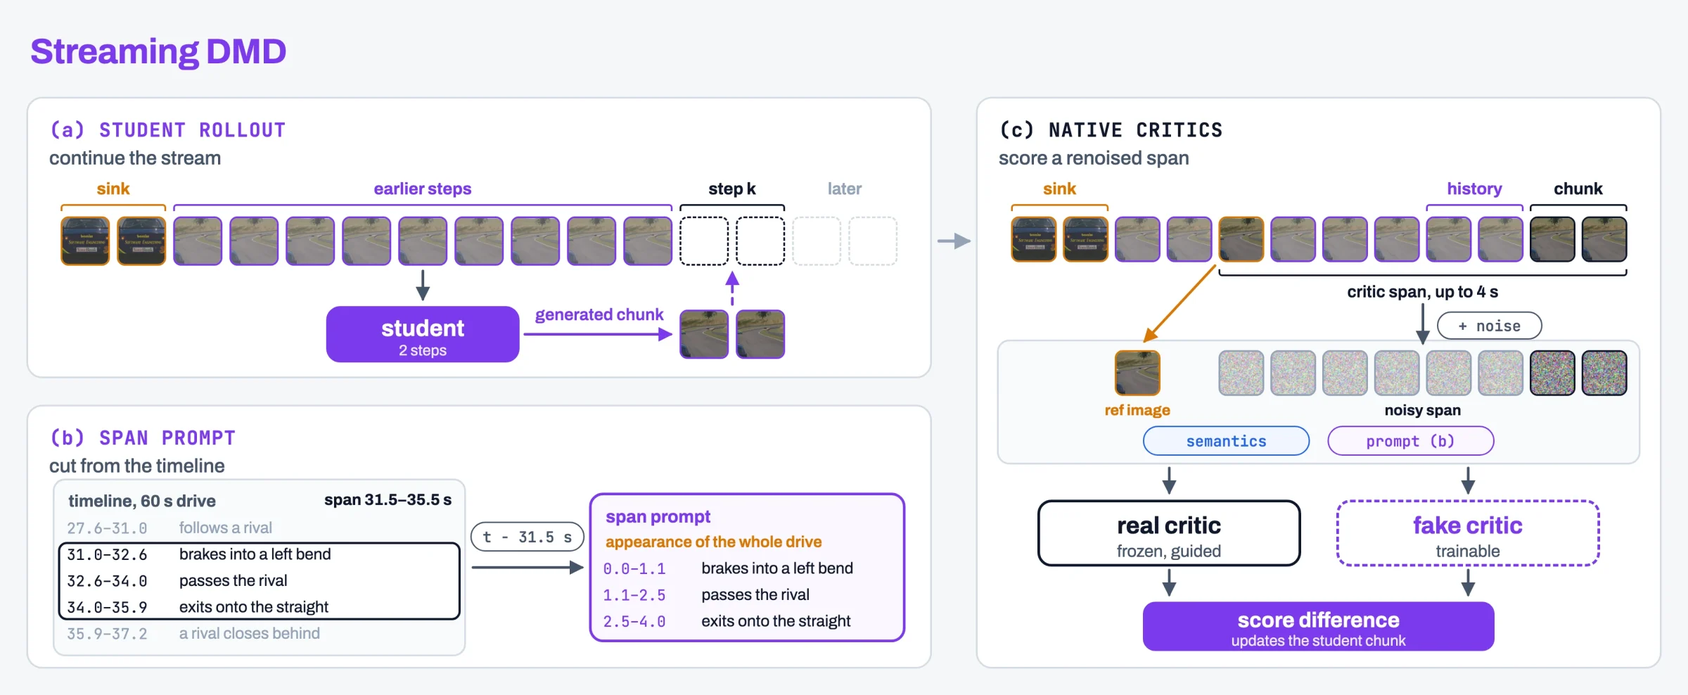
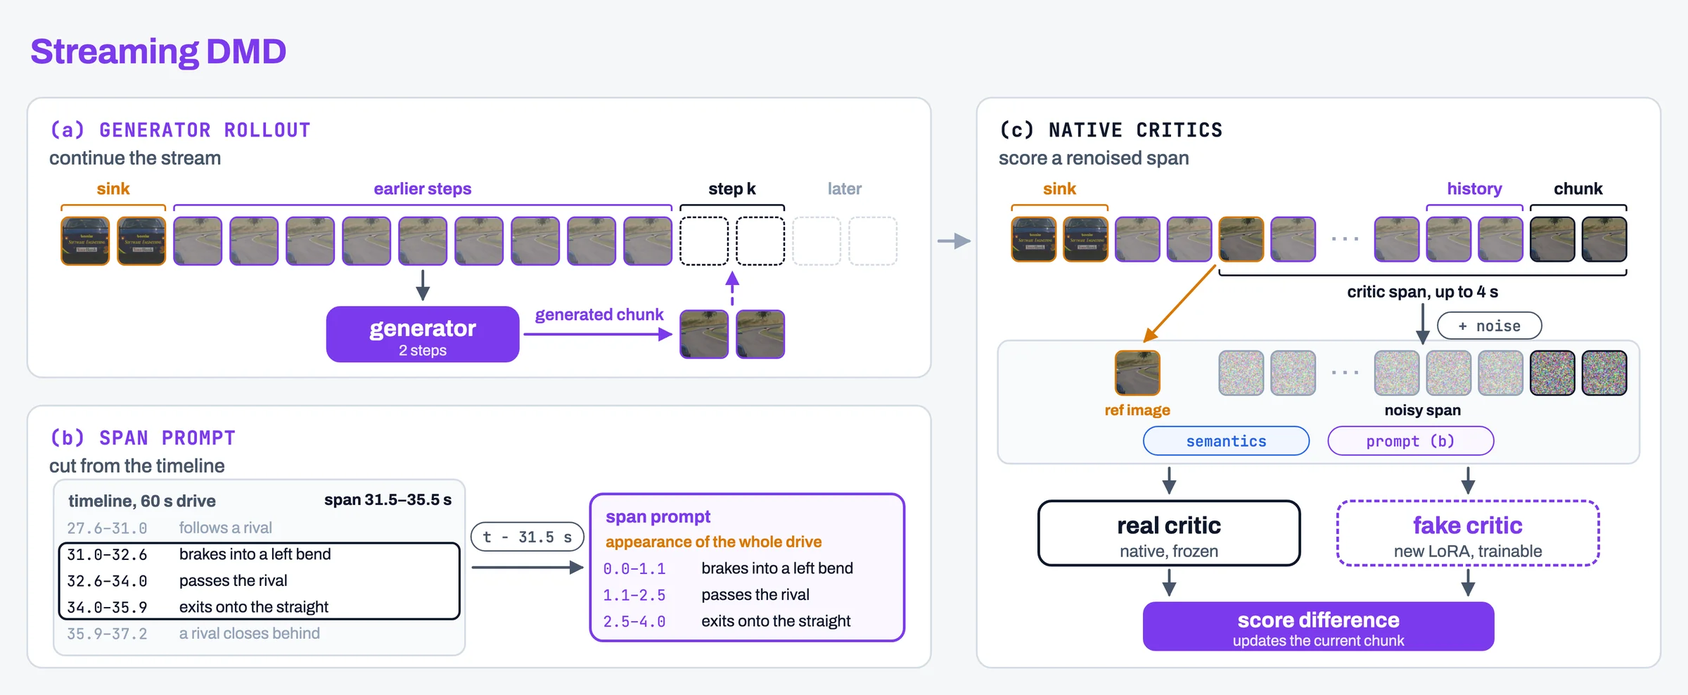
StreamRender-H3: describe the generator's three training stages in section 3.1
Describe one generator, pre-trained with teacher forcing and Resampling Forcing and then trained
with DMD, and use native Ref2VA critics in the DMD stage. Explain the five-second target segments,
the timestamped span prompts and the inputs of the labeling agents, and relabel the three figures.

diff --git a/Sol-Engine/StreamRender-H3/index.html b/Sol-Engine/StreamRender-H3/index.html
@@ -208,7 +208,7 @@ footer a:hover{color:var(--nv-green-dark)}
 <figcaption id="demo-caption"><strong id="demo-title">Demo</strong> StreamRender-H3 in the racing demo · 1080p, 62 s, with sound</figcaption></figure>
 </section>
 <section class="stats" aria-label="Key numbers">
-<div class="stat"><span class="stat-value">2<small>steps</small></span><span class="stat-label">Denoising steps per chunk in the distilled student</span></div>
+<div class="stat"><span class="stat-value">2<small>steps</small></span><span class="stat-label">Denoising steps per chunk in the deployed generator</span></div>
 <div class="stat"><span class="stat-value">217.96<small>ms</small></span><span class="stat-label">Diffusion render per streaming step on 8 GB200 GPUs, down from 799.66 ms</span></div>
 <div class="stat"><span class="stat-value">3.67<small>×</small></span><span class="stat-label">Speedup of the diffusion render from the PyTorch baseline</span></div>
 <div class="stat"><span class="stat-value">24<small>ms</small></span><span class="stat-label">Fast Causal H3 VAE decode of 2 latent frames at 720p on one GB200</span></div>
@@ -237,7 +237,7 @@ footer a:hover{color:var(--nv-green-dark)}
 <p>The loop runs in real time when each chunk is ready before the previous one has finished playing. The video then keeps pace with play, and each input shows up as soon as the chunk that contains its effect has been generated. The engine and the renderer share only the semantic frame stream and the appearance conditions of the session, so either side can be replaced independently. A different game, for example, only needs to produce semantic frames in the same format. Sections 3.2 and 3.3 describe how decoding and generation fit within the playback time of each chunk.</p>
 <h2 id="key-technologies" data-section-index="03">Key Technologies</h2>
 <h3 id="3-1-streaming-diffusion-render"><span class="h-num">3.1</span>Streaming Diffusion Render</h3>
-<p>The streaming diffusion render turns the semantic stream of the engine into photorealistic video. This section describes how it is conditioned and trained. Section 3.1.1 explains how a reference image and a prompt fix the look of the world. Section 3.1.2 explains how each chunk stays consistent with the stream before it and how the multi-step teacher is trained. Section 3.1.3 explains how the teacher is distilled into a two-step student for real-time play.</p>
+<p>The streaming diffusion render turns the semantic stream of the engine into photorealistic video. This section describes how it is conditioned and trained. Section 3.1.1 explains how a reference image and a prompt fix the look of the world. The video is produced by a diffusion generator that is trained in three stages. Section 3.1.2 explains how each chunk stays consistent with the stream before it and covers the two pre-training stages, teacher forcing and Resampling Forcing. Section 3.1.3 covers the last stage, DMD, which lets the generator produce each chunk in two steps for real-time play.</p>
 <h4 id="3-1-1-appearance-control-driven-by-reference-images-and-prompts"><span class="h-num">3.1.1</span>Appearance Control Driven by Reference Images and Prompts</h4>
 <p>A semantic map tells the renderer where everything is, but not what it looks like. In the racing demo, for example, the same road class could become dry asphalt at noon or a wet street at night, and the same vehicle class could become any car in any color. The renderer therefore needs a second source of information that fixes the look of the world. This information must also stay the same for the whole session, so that objects keep their appearance as the stream goes on. A prompt alone is too coarse for this purpose, because a few sentences cannot pin down a particular material, color scheme, or lighting. We therefore give the renderer two inputs at the start of each session, a reference image that shows the intended look and a prompt that explains how the inputs relate to each other.</p>
 <p><strong>Reference image.</strong> An image generation model redraws the opening frame of the game as a photorealistic picture. The redrawn picture keeps the composition of the frame, including the camera view, the layout of the scene, and the position of every object, and it chooses the materials, the colors and markings of objects, the weather, the lighting, and the overall style. Since the picture is aligned with the first semantic frame, each object in it corresponds to a region of a known class, so the renderer can tell which appearance belongs to which class. Changing the instruction given to the image model is enough to produce a different look for the same opening frame.</p>
@@ -245,24 +245,24 @@ footer a:hover{color:var(--nv-green-dark)}
 <p>Replacing the reference image and the prompt changes the look of the same game, while the engine and the semantic stream remain unchanged.</p>
 <figure class="article-figure wide"><a class="figure-open" href="assets/appearance_control.webp" target="_blank" rel="noreferrer" aria-label="Open full-size figure"><img src="assets/appearance_control.webp" alt="One semantic stream rendered in two styles by changing only the reference image and the prompt, in the racing demo" loading="lazy" decoding="async"/></a><figcaption>One semantic stream rendered in two styles by changing only the reference image and the prompt, in the racing demo</figcaption></figure>
 <p><strong>Training data in the racing scenario.</strong> For the racing demo, the renderer learns this division of labor from 10,000 paired clips of racing gameplay, each about 15 seconds long. The clips are cut from about 5,100 recorded races on 39 tracks, which include road circuits, dirt tracks, and ovals. Every car in these races is driven by an AI driver, each race has between zero and fifteen rival cars, and the camera follows the player's car from behind. For every clip, the engine records its normal render and the semantic video at 1344×768 and 24 frames per second. Each clip then receives three conditions and one target.</p>
-<ul><li><em>Reference image.</em> An image editing model (GPT-Image-2.5) redraws the first frame of the normal render as a screenshot of a modern photorealistic racing game. It keeps the camera, the road course, and every car at its position and size, and it redesigns everything else in rich detail without adding any object. The clips are assigned ten lighting looks in turn, so that each look covers 1,000 clips. The looks are clear midday sun, early morning sun, golden hour, sunset, blue hour, overcast sky, broken clouds, summer haze, morning mist, and storm clouds with a shaft of sunlight.</li><li><em>Prompt.</em> An LLM agent (Claude Opus 5.5) views the reference image and the semantic video and writes the prompt in the template described above.</li><li><em>Target video.</em> The native MiniMax-H3 Ref2VA model generates the photorealistic target from the reference image, the semantic video, and the prompt with 25 denoising steps. The native model generates about five seconds at a time, so each 15-second clip is produced as three consecutive segments, and each segment starts from the last frame of the previous one.</li></ul>
+<ul><li><em>Reference image.</em> An image editing model (GPT-Image-2.5) redraws the first frame of the normal render as a screenshot of a modern photorealistic racing game. It keeps the camera, the road course, every car at its position and size, and the colors of the rival cars, and the player's car keeps the livery colors and the number it has in the game. Everything else is redesigned in rich detail. Fine detail, such as spectators in a grandstand, is added only to regions that already hold that kind of object, and no car is added. The clips are assigned ten lighting looks in turn, so that each look covers 1,000 clips. The looks are clear midday sun, early morning sun, golden hour, sunset, blue hour, overcast sky, broken clouds, summer haze, morning mist, and storm clouds with a shaft of sunlight.</li><li><em>Prompt.</em> An LLM agent (Claude Opus 5.5) prepares both the reference image and the prompts. It watches the normal render and the semantic video, sends the first frame to the image model, and writes one prompt for each segment of the target in the template described above. Besides the subjects, the style, and the sound, each prompt narrates the events of its segment in time order with timestamps, such as when the player's car enters a bend or passes a rival.</li><li><em>Target video.</em> The native MiniMax-H3 Ref2VA model generates the photorealistic target from the reference image, the semantic video, and the prompt with 25 denoising steps. The native model can generate a whole 15-second clip at once, but we found that after about five seconds the generated video no longer follows the semantic video and the reference image closely. Each 15-second clip is therefore produced as three consecutive segments of about five seconds, and each segment starts from the last frame of the previous one.</li></ul>
 <figure class="article-figure wide"><a class="figure-open" href="assets/training_data.webp" target="_blank" rel="noreferrer" aria-label="Open full-size figure"><img src="assets/training_data.webp" alt="How one paired training clip is built in the racing demo" loading="lazy" decoding="async"/></a><figcaption>How one paired training clip is built in the racing demo</figcaption></figure>
-<p>The teacher of Section 3.1.2 is trained on these targets. The student of Section 3.1.3 learns from critics rather than from targets, so it is trained on longer recordings that need no target. In the racing scenario, these are 5,000 drives of 60 seconds, each with its semantic video, a reference image, and a prompt.</p>
+<p>The pre-training of Section 3.1.2 uses these targets. The DMD stage of Section 3.1.3 learns from critics rather than from targets, so it is trained on longer recordings that need no target. In the racing scenario, these are 5,000 drives of 60 seconds from the same recorded races, each with its semantic video, a reference image, and a prompt.</p>
 <h4 id="3-1-2-historical-context-and-temporal-consistency"><span class="h-num">3.1.2</span>Historical Context and Temporal Consistency</h4>
-<p>The renderer generates the video chunk by chunk, and every chunk must remain consistent with what came before it. Following the streaming design of <a href="https://arxiv.org/abs/2609.15863" target="_blank" rel="noreferrer">LynnReal-Omni</a>, we denoise each chunk in a single window together with two kinds of context. The first is the <strong>sink</strong>, the opening part of the stream, which stays in every window for the whole session. It anchors the identity of the scene and its objects, in the same spirit as the attention sink of <a href="https://arxiv.org/abs/2309.17453" target="_blank" rel="noreferrer">StreamingLLM</a> and the frame sink of <a href="https://arxiv.org/abs/2509.22622" target="_blank" rel="noreferrer">LongLive</a>. The second is the <strong>recent history</strong>, the part generated immediately before the current chunk, which carries motion across chunk boundaries. Attention inside the window is bidirectional. Every window is mapped onto the same position template, so a window late in the stream appears to the model exactly like one at the beginning.</p>
-<p>In the racing demo, the deployed model generates two scheduling units per chunk, each holding one or two latent frames, and it keeps two units of sink and two units of recent history. The first window of a stream generates seven units at once, which provides later windows with a full context from the start. The teacher uses a wider window with four units of sink and five units of recent history.</p>
-<p><strong>Prefix cache.</strong> The text and image conditioning, the reference image, and the sink no longer change after the first continuation. We therefore split each window into a fixed prefix and a moving part, and we let the prefix attend only to itself while the moving part attends to the entire window. At inference, the keys and values of the prefix are computed once for each denoising step and reused for every later chunk, so only the recent history and the current chunk are recomputed (Section 3.3). Training uses the same attention mask and recomputes the prefix with the current weights, which means that the model is trained on exactly the computation it performs at deployment.</p>
-<p><strong>Streaming training.</strong> The renderer is trained in three stages. A multi-step teacher is fine-tuned from MiniMax-H3 Ref2VA, first with teacher forcing and then with history resampling, and a two-step student is then distilled from it with DMD for real-time use (Section 3.1.3). In the racing demo, the teacher is trained on the paired racing clips of Section 3.1.1. All three stages are trained in the same way as the model runs, that is, along streams and window by window rather than on independent clips. Every training clip forms a stream of consecutive windows. Each training step processes one window of every stream, and the output of that window is written back as history for the next window, which a later step processes. The model therefore always sees its context in the same layout of sink, recent history, and current chunk as at inference. The three stages differ in what they write back. Teacher forcing writes back the ground truth, history resampling writes back resampled versions of the ground truth as described below, and the student writes back the chunks that it generates itself (Section 3.1.3).</p>
-<p><strong>Training the teacher on resampled history.</strong> After teacher forcing, the teacher has seen only ground-truth history. At inference, however, its context is its own imperfect output, and its errors then accumulate along the stream. We close this gap with the resampling operation of <a href="https://arxiv.org/abs/2512.15702" target="_blank" rel="noreferrer">Resampling Forcing</a>. Resampling Forcing trains a causal autoregressive video model end to end and uses self-resampling to expose it to its own errors on the history frames. Our renderer keeps bidirectional attention inside each window, so we borrow only the resampling itself and apply it to the history of each window. For each stream, a noise level is drawn from a shifted logit-normal distribution. At every window, the ground-truth chunk is noised to this level and resampled by the model itself without gradient, and it is this resampled chunk rather than the ground truth that is written back as history. The current chunk is trained against the ground truth while being conditioned on the resampled history, so the teacher learns to continue from context that contains its own errors.</p>
+<p>The renderer generates the video chunk by chunk, and every chunk must remain consistent with what came before it. Following the streaming design of <a href="https://arxiv.org/abs/2609.15863" target="_blank" rel="noreferrer">LynnReal-Omni</a>, we denoise each chunk in a single window together with two kinds of context. The first is the <strong>sink</strong>, the opening part of the stream, which stays in every window for the whole session. It anchors the identity of the scene and its objects, in the same spirit as the attention sink of <a href="https://arxiv.org/abs/2309.17453" target="_blank" rel="noreferrer">StreamingLLM</a> and the frame sink of <a href="https://arxiv.org/abs/2509.22622" target="_blank" rel="noreferrer">LongLive</a>. The second is the <strong>recent history</strong>, the part generated immediately before the current chunk, which carries motion across chunk boundaries. Attention inside the window is bidirectional. Every window after the first is mapped onto the same position template, so a window late in the stream appears to the generator exactly like an early one.</p>
+<p>In the racing demo, the deployed generator produces two scheduling units per chunk, each holding one or two latent frames, and it keeps two units of sink and two units of recent history. The first window of a stream generates seven units at once, which provides later windows with a full context from the start. During pre-training, the generator uses a wider window with four units of sink and five units of recent history.</p>
+<p><strong>Prefix cache.</strong> The text and image conditioning, the reference image, and the sink no longer change after the first continuation. We therefore split each window into a fixed prefix and a moving part, and we let the prefix attend only to itself while the moving part attends to the entire window. At inference, the keys and values of the prefix are computed once for each denoising step and reused for every later chunk, so only the recent history and the current chunk are recomputed (Section 3.3). The DMD stage of Section 3.1.3 trains with the same attention mask and recomputes the prefix with the current weights, so the generator is trained on exactly the computation it performs at inference. During pre-training, attention is dense within each window.</p>
+<p><strong>Streaming training.</strong> The generator is fine-tuned from MiniMax-H3 Ref2VA in three stages. Teacher forcing and then Resampling Forcing pre-train it as an ordinary multi-step diffusion model, and DMD then trains it to generate each chunk in two steps for real-time play (Section 3.1.3). In the racing demo, pre-training uses the paired racing clips of Section 3.1.1. Every stage trains on windows with the same layout of sink, recent history, and current chunk as at inference, and the stages differ in where the history comes from. Teacher forcing samples one window from each clip and takes its history from the ground truth. Resampling Forcing and DMD instead run along streams. Every training clip forms a stream of consecutive windows. Each training step processes one window of every stream, and the output of that window is written back as history for the next window, which a later step processes. Resampling Forcing writes back resampled versions of the ground truth as described below, and DMD writes back the chunks that the generator produces itself (Section 3.1.3).</p>
+<p><strong>Resampling Forcing.</strong> After teacher forcing, the generator has seen only ground-truth history. At inference, however, its context is its own imperfect output, and its errors then accumulate along the stream. We close this gap with the resampling operation of <a href="https://arxiv.org/abs/2512.15702" target="_blank" rel="noreferrer">Resampling Forcing</a>. Resampling Forcing trains a causal autoregressive video model end to end and uses self-resampling to expose it to its own errors on the history frames. Our generator keeps bidirectional attention inside each window, so we borrow only the resampling itself and apply it to the history of each window. For each stream, a noise level is drawn from a shifted logit-normal distribution. At every window, the ground-truth chunk is noised to this level and resampled by the generator itself without gradient, and it is this resampled chunk rather than the ground truth that is written back as history. The current chunk is trained against the ground truth while being conditioned on the resampled history, so the generator learns to continue from context that contains its own errors.</p>
 <figure class="article-figure wide"><a class="figure-open" href="assets/streaming_context.webp" target="_blank" rel="noreferrer" aria-label="Open full-size figure"><img src="assets/streaming_context.webp" alt="Streaming window, prefix cache, and resampled history" loading="lazy" decoding="async"/></a><figcaption>Streaming window, prefix cache, and resampled history</figcaption></figure>
-<p><strong>Guidance fitted into the teacher.</strong> The released MiniMax-H3 checkpoint is guidance-distilled, so it samples with a single forward pass per denoising step. Following the semantic video closely, however, requires guidance on the structure condition as well, and classifier-free guidance over the caption and the semantic video would take three forward passes per step. <a href="https://arxiv.org/abs/2609.15863" target="_blank" rel="noreferrer">LynnReal-Omni</a> avoids this cost by training guidance into the model. It combines the conditional prediction of the model with a stop-gradient caption-free prediction and fits the combination to the data, so that at convergence the conditional prediction alone equals the guided prediction. LynnReal-Omni fits a single guidance step on the caption. We extend this approach to structure control with a chain of three branches. The branch ∅ receives neither the caption nor the semantic video, the branch T adds the caption, and the branch TS adds the semantic video, while the reference image is present in every branch. Classifier-free guidance along this chain starts from the plain conditional predictions u(∅), u(T), and u(TS). It stretches the caption step from u(∅) to u(T) by 1.5 and the structure step from u(T) to u(TS) by 3.0, which is the setting of the racing demo. Guidance fitting runs this chain backwards. We treat the raw outputs f(∅), f(T), and f(TS) of the network as guided predictions and undo the guidance by shrinking each step by its scale, which gives u(∅) = f(∅), u(T) = f(∅) + [f(T) − f(∅)] / 1.5, and u(TS) = u(T) + [f(TS) − f(T)] / 3.0. The start of each step is held fixed with a stop gradient, so that u(T) = (2 f(T) + sg f(∅)) / 3 and u(TS) = (f(TS) + sg f(T) + sg f(∅)) / 3, and every u is trained against the data with the ordinary diffusion loss. Once each u matches the plain conditional prediction, applying the guidance to u returns f, so a single call of f(TS) gives the guided prediction. Placing the strongest guidance on the step that adds the semantic video keeps the layout, the objects, and the camera of the generated video consistent with the state of the engine. The teacher learns guidance fitting and history resampling in the same training run, so each of its denoising steps takes a single forward pass.</p>
-<figure class="article-figure wide"><a class="figure-open" href="assets/guidance_fitting.webp" target="_blank" rel="noreferrer" aria-label="Open full-size figure"><img src="assets/guidance_fitting.webp" alt="Guidance fitting in the teacher, compared with LynnReal-Omni" loading="lazy" decoding="async"/></a><figcaption>Guidance fitting in the teacher, compared with LynnReal-Omni</figcaption></figure>
+<p><strong>Guidance fitted into the generator.</strong> The released MiniMax-H3 checkpoint is guidance-distilled, so it samples with a single forward pass per denoising step. Following the semantic video closely, however, requires guidance on the structure condition as well, and classifier-free guidance over the caption and the semantic video would take three forward passes per step. <a href="https://arxiv.org/abs/2609.15863" target="_blank" rel="noreferrer">LynnReal-Omni</a> avoids this cost by training guidance into the model. It combines the conditional prediction of the model with a stop-gradient caption-free prediction and fits the combination to the data, so that at convergence the conditional prediction alone equals the guided prediction. LynnReal-Omni fits a single guidance step on the caption. We extend this approach to structure control with a chain of three branches. The branch ∅ receives neither the caption nor the semantic video, the branch T adds the caption, and the branch TS adds the semantic video, while the reference image is present in every branch. Classifier-free guidance along this chain starts from the plain conditional predictions u(∅), u(T), and u(TS). It stretches the caption step from u(∅) to u(T) by 1.5 and the structure step from u(T) to u(TS) by 3.0, which is the setting of the racing demo. Guidance fitting runs this chain backwards. We treat the raw outputs f(∅), f(T), and f(TS) of the network as guided predictions and undo the guidance by shrinking each step by its scale, which gives u(∅) = f(∅), u(T) = f(∅) + [f(T) − f(∅)] / 1.5, and u(TS) = u(T) + [f(TS) − f(T)] / 3.0. The start of each step is held fixed with a stop gradient, so that u(T) = (2 f(T) + sg f(∅)) / 3 and u(TS) = (f(TS) + sg f(T) + sg f(∅)) / 3, and every u is trained against the data with the ordinary diffusion loss. Once each u matches the plain conditional prediction, applying the guidance to u returns f, so a single call of f(TS) gives the guided prediction. Placing the strongest guidance on the step that adds the semantic video keeps the layout, the objects, and the camera of the generated video consistent with the state of the engine. The generator learns guidance fitting together with Resampling Forcing in the same pre-training run, so each of its denoising steps takes a single forward pass.</p>
+<figure class="article-figure wide"><a class="figure-open" href="assets/guidance_fitting.webp" target="_blank" rel="noreferrer" aria-label="Open full-size figure"><img src="assets/guidance_fitting.webp" alt="Guidance fitting, compared with LynnReal-Omni" loading="lazy" decoding="async"/></a><figcaption>Guidance fitting, compared with LynnReal-Omni</figcaption></figure>
 <h4 id="3-1-3-two-step-distillation-and-autoregressive-streaming-generation"><span class="h-num">3.1.3</span>Two-Step Distillation and Autoregressive Streaming Generation</h4>
-<p>Even with guidance fitted, the teacher is too slow for real-time play. In the racing demo, it samples each chunk with 16 denoising steps, whereas real-time play leaves only a fraction of a second to generate a chunk. We therefore start a student from the teacher and distill it so that it generates each chunk in two steps while continuing its own stream.</p>
-<p><strong>Student.</strong> In the racing demo, the student generates each chunk in two denoising steps, first from pure noise to an intermediate noise level and then to a clean chunk, and it continues from its own output chunk after chunk with the window and prefix cache of Section 3.1.2. Its window of two sink units, two history units, and two current units is smaller than that of the teacher, which keeps each step inexpensive. The student is distilled with the same streaming training as the teacher, but without any ground truth. In the racing demo, each of its training streams covers the first 30 seconds of a 60-second drive (Section 3.1.1).</p>
-<p><strong>Streaming distribution matching distillation.</strong> We distill the student with distribution matching distillation (<a href="https://arxiv.org/abs/2311.18828" target="_blank" rel="noreferrer">DMD</a>, <a href="https://arxiv.org/abs/2405.14867" target="_blank" rel="noreferrer">DMD2</a>). A frozen real critic represents the distribution that the student should reach, and a trainable fake critic tracks what the student currently generates. The difference between their scores on a re-noised student chunk tells the student how to move toward the real critic. As in <a href="https://arxiv.org/abs/2506.08009" target="_blank" rel="noreferrer">Self Forcing</a>, the student is trained on its own rollout rather than on ground truth. Following the streaming training of Section 3.1.2, each step generates the current window of every stream from the student's own earlier output, computes the loss on that chunk only, and writes the generated chunk back, so that the next step continues the same stream. The history of later windows has therefore been generated by earlier versions of the student, and no gradient flows into it. This follows the same idea as the streaming long tuning of <a href="https://arxiv.org/abs/2509.22622" target="_blank" rel="noreferrer">LongLive</a>, which extends the clip from the previous iteration and applies DMD only to the newly generated segment. Our streams, however, advance by one chunk per step rather than by several seconds.</p>
-<p><strong>Critics on a short span.</strong> Both critics are the native bidirectional MiniMax-H3 Ref2VA, and each scores a short continuous span of the student's rollout that ends at the current chunk. The frame of the rollout at the start of the span serves as the reference image, and the semantic video of the same span serves as the reference video. In the racing demo, a span holds up to 29 latent frames, about four seconds. Before distillation, the native model is fine-tuned with LoRA on the opening five seconds of the paired racing clips of Section 3.1.1, using the guidance fitting of Section 3.1.2 with scales 3.0 and 4.0. The real critic is a frozen copy of this model, so a single forward pass gives its guided prediction. The fake critic continues to train the same LoRA on the student's spans with the same guidance fitting, and it scores with its plain conditional prediction u(TS). DMD therefore moves the student toward the guided distribution of the real critic. The fake critic learns on the whole span, whereas the student is updated through its current chunk only.</p>
-<p><strong>Prompts cut from a timeline.</strong> Each critic sees a different few seconds of a long drive, so its prompt must describe exactly that span. A prompt that describes the drive only in general terms is not enough. In the racing demo, when the fine-tuned native model received such general prompts, it rendered the semantic video in reverse in six of eight test windows, and it also got the colors of the cars wrong. Removing parts of the prompt one at a time showed that the events narrated in time order fix the direction of time, and that the description of each car fixes its colors. We therefore label every 60-second drive once with a timeline. In the racing demo, an agent running GPT-6.1 Sol watches the semantic video together with two tables sampled every quarter second, the speed, acceleration, and yaw rate of the player's car recorded by the engine, and the position and size of every car in the semantic video. It writes the appearance of every car and of the track, which holds for the whole drive, events of 0.3 to 2.5 seconds with absolute timestamps, and the state of the scene every half second. For each score span, the events that fall inside it are cut out and shifted to the clock of the span, and they are assembled with the appearance into a prompt in the template of Section 3.1.1. The student keeps its single prompt for the whole session, so the prefix cache of Section 3.1.2 still applies.</p>
+<p>Even with guidance fitted, the pre-trained generator is too slow for real-time play. In the racing demo, it samples each chunk with 16 denoising steps, whereas real-time play leaves only a fraction of a second to generate a chunk. We therefore continue training it with DMD, so that it generates each chunk in two steps while continuing its own stream.</p>
+<p><strong>Two-step generation.</strong> In the racing demo, the generator produces each chunk in two denoising steps, first from pure noise to an intermediate noise level and then to a clean chunk, and it continues from its own output chunk after chunk with the window and prefix cache of Section 3.1.2. Its window of two sink units, two history units, and two current units is smaller than the one used in pre-training, which keeps each step inexpensive. It is trained along streams like Resampling Forcing, but without any ground truth. In the racing demo, each of its training streams covers the first 30 seconds of a 60-second drive (Section 3.1.1).</p>
+<p><strong>Streaming distribution matching distillation.</strong> We train the generator with distribution matching distillation (<a href="https://arxiv.org/abs/2311.18828" target="_blank" rel="noreferrer">DMD</a>, <a href="https://arxiv.org/abs/2405.14867" target="_blank" rel="noreferrer">DMD2</a>). A frozen real critic represents the distribution that the generator should reach, and a trainable fake critic tracks what the generator currently produces. The difference between their scores on a re-noised generated chunk tells the generator how to move toward the real critic. As in <a href="https://arxiv.org/abs/2506.08009" target="_blank" rel="noreferrer">Self Forcing</a>, the generator is trained on its own rollout rather than on ground truth. Following the streaming training of Section 3.1.2, each step generates the current window of every stream from the generator's own earlier output, computes the loss on that chunk only, and writes the generated chunk back, so that the next step continues the same stream. The history of later windows has therefore been generated by earlier versions of the generator, and no gradient flows into it. This follows the same idea as the streaming long tuning of <a href="https://arxiv.org/abs/2509.22622" target="_blank" rel="noreferrer">LongLive</a>, which extends the clip from the previous iteration and applies DMD only to the newly generated segment. Our streams, however, advance by one chunk per step rather than by several seconds.</p>
+<p><strong>Critics on a short span.</strong> Both critics are the native bidirectional MiniMax-H3 Ref2VA, and each scores a short continuous span of the rollout that ends at the current chunk. The frame of the rollout at the start of the span serves as the reference image, and the semantic video of the same span serves as the reference video. In the racing demo, a span holds up to 29 latent frames, about four seconds. The real critic is the released model itself, frozen and without an adapter. The released checkpoint is guidance-distilled, so a single forward pass gives its prediction. The fake critic starts from the same released weights with a fresh LoRA, which trains on the generated spans with the guidance fitting of Section 3.1.2 at scales 3.0 and 4.0, and it scores with its plain conditional prediction u(TS). DMD therefore moves the generator toward what the released model generates for each span. The fake critic learns on the whole span, whereas the generator is updated through its current chunk only.</p>
+<p><strong>Prompts cut from a timeline.</strong> Each critic sees a different few seconds of a long drive, so its prompt must describe exactly that span. A prompt that describes the drive only in general terms is not enough. We found that without the actions of the span described with timestamps, the model does not know where on the timeline the reference image belongs, and it sometimes even renders the semantic video in reverse. Describing the look of the player's car in the prompt also keeps its colors right. We therefore label every 60-second drive once with a timeline. In the racing demo, an agent running GPT-6.1 Sol watches the semantic video together with two tables sampled every quarter second, the speed, acceleration, and yaw rate of the player's car recorded by the engine, and the position and size of every car in the semantic video. It also sees the redrawn first frame and an earlier general prompt of the drive, from which it takes the look of the cars and the track. It writes the appearance of every car and of the track, which holds for the whole drive, phases of 2 to 10 seconds that describe the course, events of 0.3 to 2.5 seconds with absolute timestamps, and the state of the scene every half second. For each score span, the events that fall inside it are cut out and shifted to the clock of the span, and they are assembled with the appearance, the phases that overlap the span, and the states at its start and end into a prompt in the template of Section 3.1.1. The generator keeps its single prompt for the whole session, so the prefix cache of Section 3.1.2 still applies.</p>
 <figure class="article-figure wide"><a class="figure-open" href="assets/distillation.webp" target="_blank" rel="noreferrer" aria-label="Open full-size figure"><img src="assets/distillation.webp" alt="Streaming distribution matching distillation" loading="lazy" decoding="async"/></a><figcaption>Streaming distribution matching distillation</figcaption></figure>
 <h3 id="3-2-fast-causal-h3-vae-self-improving-the-streaming-decoder-with-agent-loops"><span class="h-num">3.2</span>Fast Causal H3 VAE: Self-Improving the Streaming Decoder with Agent Loops</h3>
 <figure class="article-figure wide"><a class="figure-open" href="assets/vae_agent_loop.svg" target="_blank" rel="noreferrer" aria-label="Open full-size figure"><img src="assets/vae_agent_loop.svg" alt="The agent loop that built Fast Causal H3 VAE: the human sets the goal once; the agent proposes, implements, measures with fixed checks, and lets each measurement decide the next step" loading="lazy" decoding="async"/></a><figcaption>The goal and constraints are set once. Each iteration, the agent proposes a change, implements it, runs the same fixed checks, and the measured numbers decide whether to keep it, revert it, or stop.</figcaption></figure>
